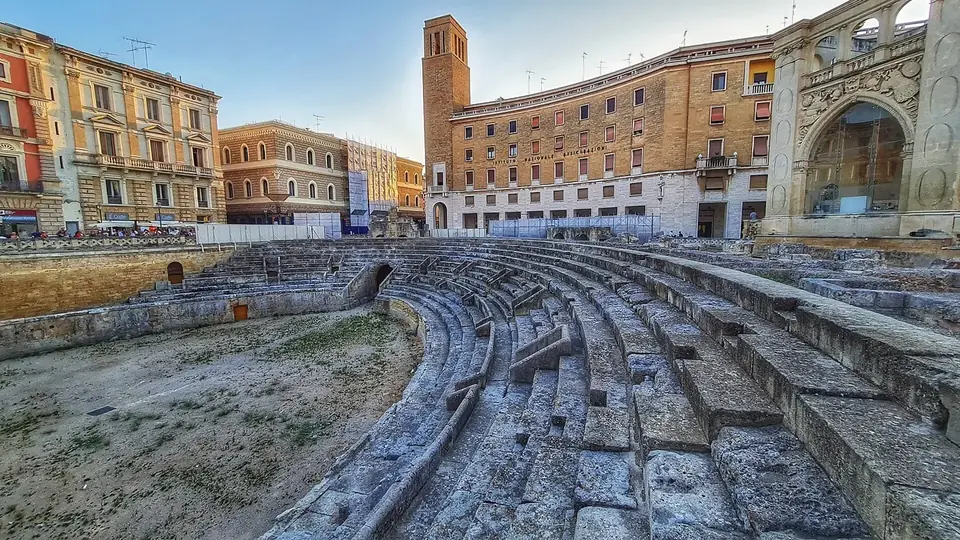
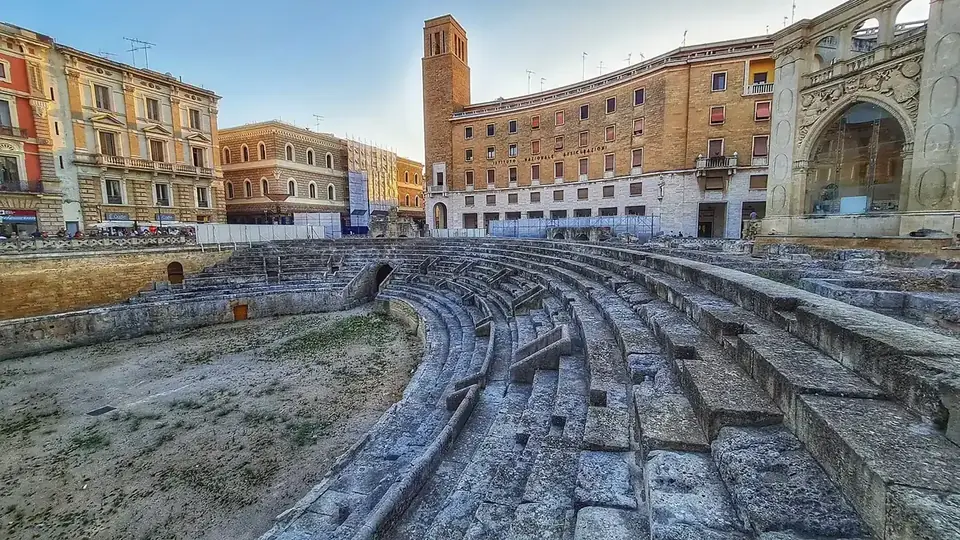
fix: ripristino ponte-monachile.webp (0 byte), scrittura atomica, immagini <=200KB
Claude-Session: https://claude.ai/code/session_01PBRZiYUzGt86QRbTGV8kKn

diff --git a/scripts/make_variants.py b/scripts/make_variants.py
@@ -4,14 +4,20 @@ import json,os,io,time
 from PIL import Image
 R=os.path.dirname(os.path.dirname(os.path.abspath(__file__)));D=R+'/site/blog/img'
 def save(im,path,q):
-    im.save(path,'WEBP',quality=q,method=6)
-for k in json.load(open(R+'/blog-src/photos.json')):
+    tmp=path+'.tmp'      # scrittura atomica: un'interruzione non lascia file vuoti
+    im.save(tmp,'WEBP',quality=q,method=6);os.replace(tmp,path)
+P=json.load(open(R+'/blog-src/photos.json'))
+for k in list(P):
     f=f'{D}/{k}.webp'
     if not os.path.exists(f) or time.time()-os.path.getmtime(f)<45:continue   # in scrittura da add_photo
     im=Image.open(f).convert('RGB');ch=False
     q=74
     while os.path.getsize(f)>200*1024 and q>=46:
         save(im,f,q);q-=4;ch=True
+    while os.path.getsize(f)>200*1024 and im.width>1000:   # ultima risorsa: riduce le dimensioni
+        im=im.resize((round(im.width*.92),round(im.height*.92)),Image.LANCZOS);save(im,f,46);ch=True
+    if ch and (im.width,im.height)!=(P[k]['w'],P[k]['h']):
+        P[k]['w'],P[k]['h']=im.size;json.dump(P,open(R+'/blog-src/photos.json','w'),ensure_ascii=False,indent=1)
     for w,qq in((640,72),(960,74)):
         v=f'{D}/{k}-{w}.webp'
         if ch or not os.path.exists(v) or os.path.getmtime(v)<os.path.getmtime(f):
